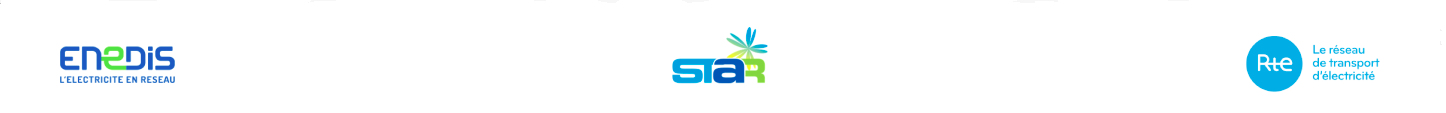
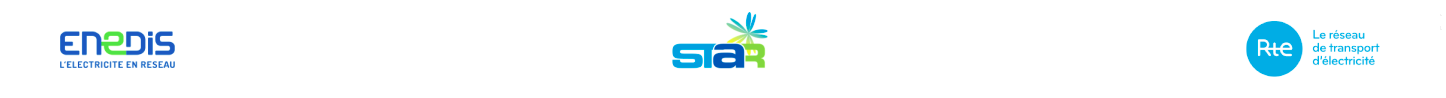
STAR-161 css du login

Changed region(s): [[0.8402, 0.2143, 0.9647, 0.8265], [0.0311, 0.3061, 0.1245, 0.7347], [0.4668, 0.1531, 0.529, 0.7653]]

diff --git a/keycloak/themes/custom-theme/login/resources/css/login.css b/keycloak/themes/custom-theme/login/resources/css/login.css
@@ -257,28 +257,27 @@ div.kc-logo-text span {
     padding-top: 0px;
 }
 
-#rte-logo {
-    width: 1400px;
-    height: 120px;
+#rte-logo-bar {
+    width: 100%;
 }
 
-#rte-logo-bar {
-    margin: auto;
+#rte-logo-bar img {
+    width: 80%;
+    height: auto;
+}
+
+#title-background {
+    width: 100%;
+}
+
+#title-background img {
+    width: 80%;
+    height: auto;
 }
 
 #kc-login {
     background: none;
     background-color: #7f7f7f !important;
-}
-
-#title-background {
-    width: 1400px;
-    height: 305px;
-    margin: auto;
-    background-image: url('../img/welcome-star.png');
-    background-repeat: no-repeat;
-    background-size: 100% 305px;
-    background-position: center;
 }
 
 #title {
@@ -542,6 +541,21 @@ ul#kc-totp-supported-apps {
         padding: 20px 60px 0 0;
         color: #72767b;
         letter-spacing: 0;
+    }
+    
+    #rte-logo-bar {
+        width: 100%;
+    }
+    #rte-logo-bar img {
+        width: 100%;
+        height: auto;
+    }
+    #title-background {
+        width: 100%;
+    }
+    #title-background img {
+        width: 100%;
+        height: auto;
     }
 
     div.kc-logo-text {
